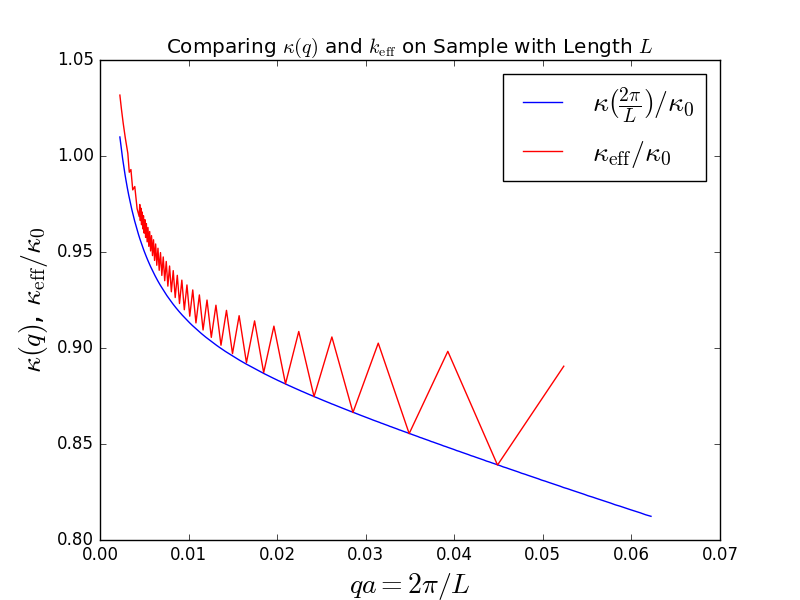
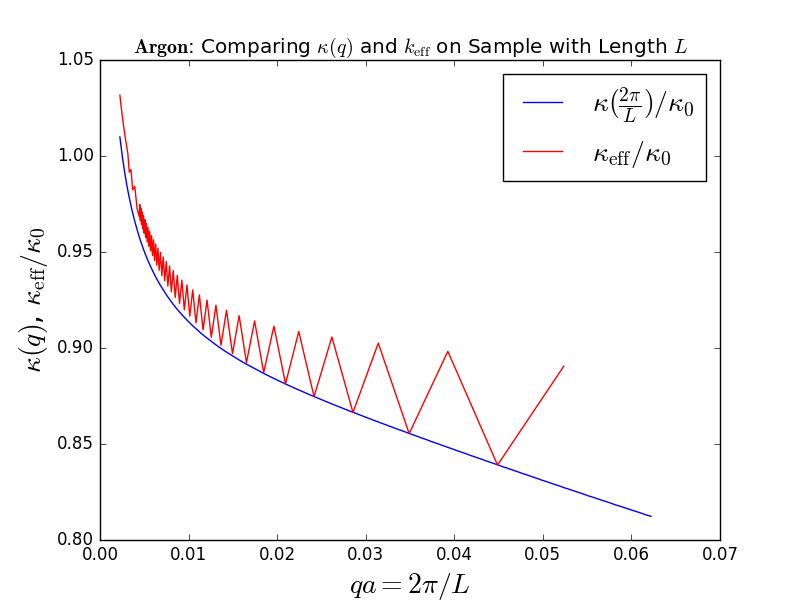
modify plots

Changed region(s): [[0.1562, 0.06, 0.875, 0.09]]

diff --git a/data/keff.py b/data/keff.py
@@ -17,7 +17,7 @@ kappaSet1=[line[1] for line in datak if line[0]> 100 and line[0]<2801]
 xx2      =[2*sp.pi/line[0] for line in dataeff if line[0]> 100 and line[0]<2801]
 kappaSet2=[line[1] for line in dataeff if line[0]> 100 and line[0]<2801]
 plt.figure(1)
-plt.title("Comparing $\kappa(q)$ and $k_\mathrm{eff}$ on Sample with Length $L$")
+plt.title("$\mathbf{Argon}$: Comparing $\kappa(q)$ and $k_\mathrm{eff}$ on Sample with Length $L$")
 plt.plot(xx1,kappaSet1, '-b', label="$\kappa(\\frac{2\pi}{L})/\kappa_0$")
 plt.plot(xx2,kappaSet2, '-r', label="$\kappa_\\mathrm{eff}/\kappa_0$")
 pl.xlabel('$qa = 2\pi/L$', fontsize=20)
@@ -26,6 +26,7 @@ plt.legend(loc='best', fontsize=20)
 plt.savefig("keff.png")
 
 plt.figure(2)
+plt.title("$\mathbf{Argon}$: Comparing $\kappa(q)$ and $k_\mathrm{eff}$ on Sample with Length $L$")
 resSet1 = [1/element for element in kappaSet1]
 resSet2 = [1/element for element in kappaSet2]
 plt.plot(xx1,resSet1, '-b', label="$\kappa_0/\kappa(\\frac{2\pi}{L})$")
